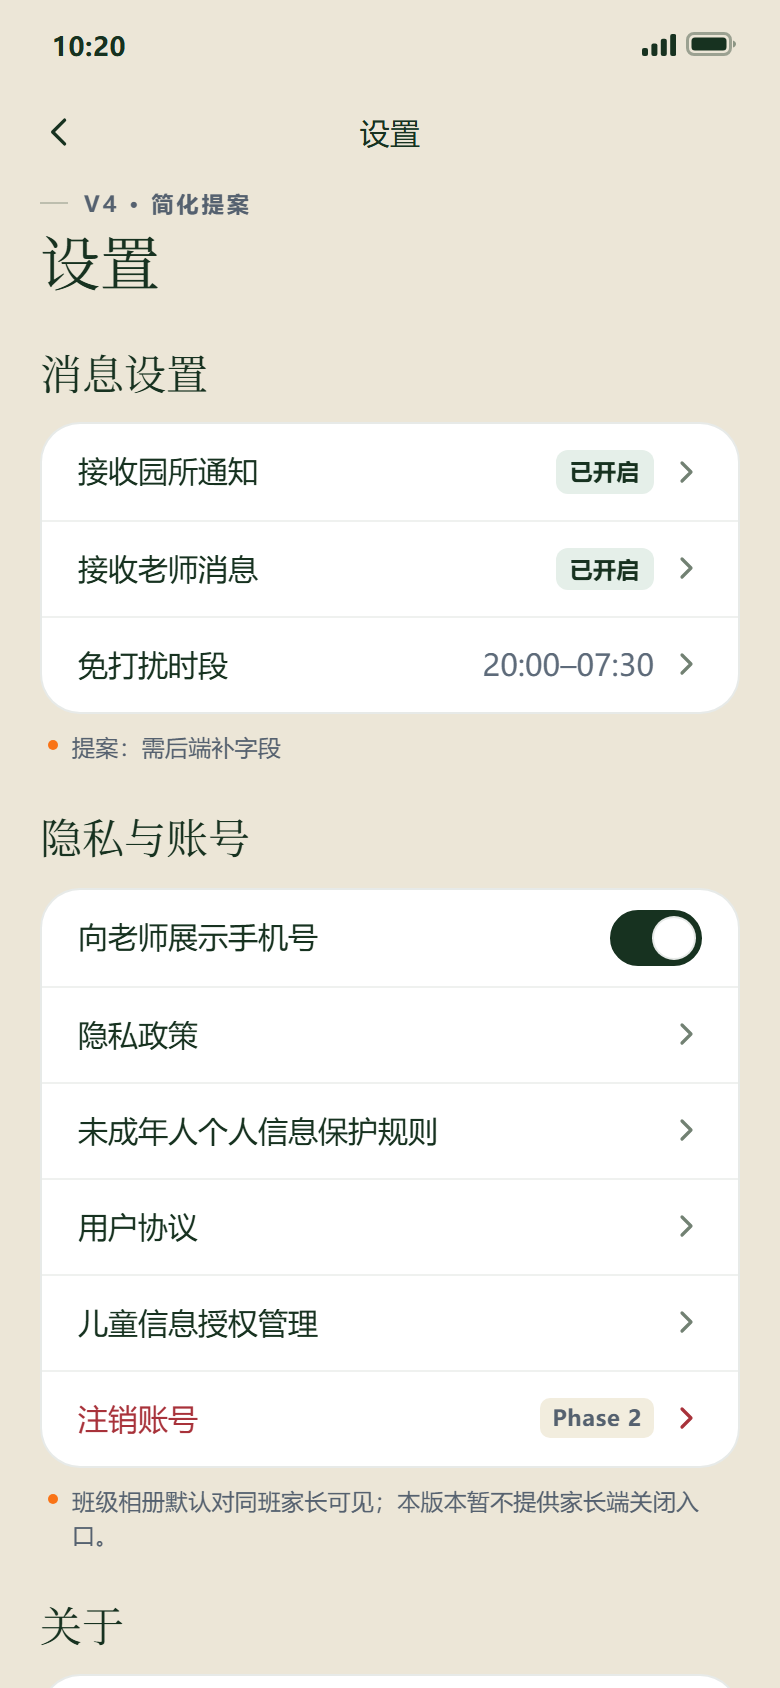
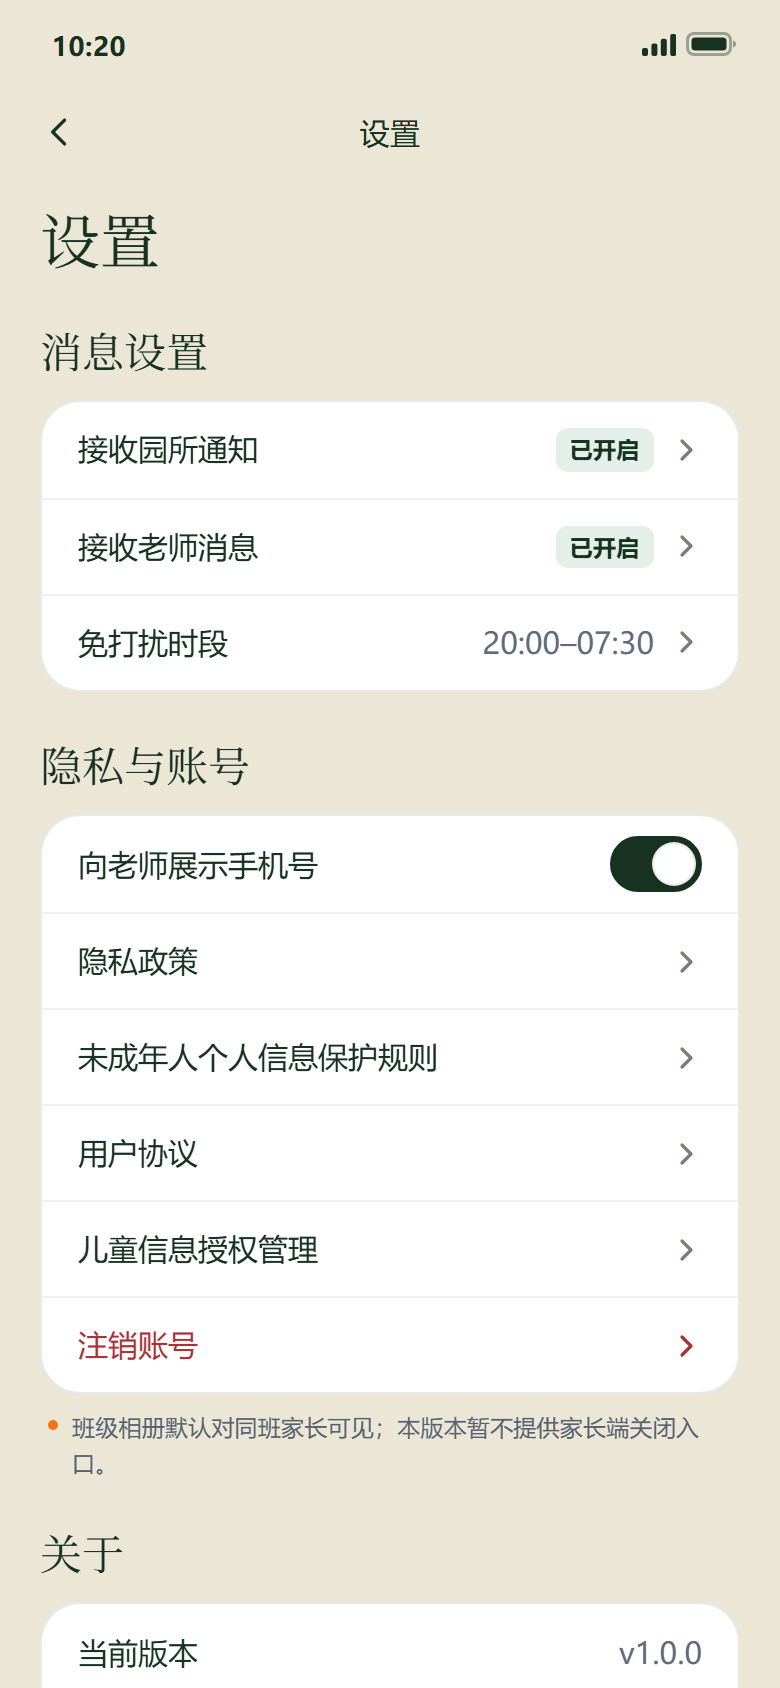
fix(design): #88 code review 收口
移除用户可见提案注解并更新 49/56/smoke；05 保留期限不再写无来源的 3 年；checker README 授权 clock/relation 与 data-od-id 容器定位；54-pickup 改名 59 避免同前缀。

Changed region(s): [[0.0308, 0.0924, 0.9538, 1.0], [0.3077, 0.6161, 0.5538, 0.6777], [0.8615, 0.7085, 0.8923, 0.7393]]

diff --git a/docs/design-previews/2026-11-13-parent-dna-opendesign/parent-chosen/05-policy/index.html b/docs/design-previews/2026-11-13-parent-dna-opendesign/parent-chosen/05-policy/index.html
@@ -75,7 +75,7 @@
           <div class="section-head" aria-hidden="true"><span class="section-no">03</span></div>
           <h3 class="section-title" id="policy-storage">存储与保护</h3>
           <p>信息存储在中国境内的服务器，传输过程使用加密连接。园所与平台按最小必要原则分配查看权限，操作记录可追溯。</p>
-          <p>账号信息在孩子离园后保存 <span class="hl hl--marigold">3 年</span>，到期后删除或匿名化处理；法律法规另有要求的，按法定期限保存。</p>
+          <p>账号信息在孩子离园后按《隐私政策》约定期限保存，到期后删除或匿名化处理；法律法规另有要求的，按法定期限保存。</p>
         </section>
 
         <section class="policy-section" data-od-id="section-sharing" aria-labelledby="policy-sharing">

diff --git a/docs/design-previews/2026-11-13-parent-dna-opendesign/parent-chosen/29-settings/styles.css b/docs/design-previews/2026-11-13-parent-dna-opendesign/parent-chosen/29-settings/styles.css
@@ -292,3 +292,9 @@ a.btn{text-decoration:none}
 .toast.is-visible{opacity:1;visibility:visible;transform:translate(-50%,0);transition:opacity 200ms var(--ease-out),transform 200ms var(--ease-out),visibility 0s}
 
 @media(prefers-reduced-motion:reduce){*,*::before,*::after{transition-duration:1ms!important;animation-duration:1ms!important}}
+
+/* #88: proposal annotations are review-only; keep them out of the user-facing prototype. */
+.proposal-tag,.proposal-note,.proposal-flag,.proposal-mark,.tag--proposal,.phase-tag,.phase-note,.phase-inline,.spec-note,.notice-foot__proposal{display:none!important}
+
+/* #88: proposal-only notes are review artifacts, not user-facing copy. */
+[data-od-id="quiet-proposal-note"],.sheet-note{display:none!important}

diff --git a/docs/design-previews/2026-11-13-parent-dna-opendesign/parent-chosen/21-tasks/index.html b/docs/design-previews/2026-11-13-parent-dna-opendesign/parent-chosen/21-tasks/index.html
@@ -4,7 +4,7 @@
 <meta charset="utf-8" />
 <meta name="viewport" content="width=device-width, initial-scale=1" />
 <meta name="color-scheme" content="light" />
-<title>亲子任务 · 积分提案 — 养成星球</title>
+<title>亲子任务 — 养成星球</title>
 <link rel="stylesheet" href="../../_shared/fonts.css" />
   <link rel="stylesheet" href="styles.css" />
 </head>

diff --git a/docs/design-previews/2026-11-13-parent-dna-opendesign/parent-chosen/07-notice-detail/styles.css b/docs/design-previews/2026-11-13-parent-dna-opendesign/parent-chosen/07-notice-detail/styles.css
@@ -791,3 +791,6 @@ button:focus-visible {
     animation-duration: 0.01ms !important;
   }
 }
+
+/* #88: proposal annotations are review-only; keep them out of the user-facing prototype. */
+.proposal-tag,.proposal-note,.proposal-flag,.proposal-mark,.tag--proposal,.phase-tag,.phase-note,.phase-inline,.spec-note,.notice-foot__proposal{display:none!important}

diff --git a/docs/design-previews/2026-11-13-parent-dna-opendesign/parent-chosen/21-tasks/styles.css b/docs/design-previews/2026-11-13-parent-dna-opendesign/parent-chosen/21-tasks/styles.css
@@ -777,3 +777,6 @@ svg { display: block; }
     animation-duration: 1ms !important;
   }
 }
+
+/* #88: proposal annotations are review-only; keep them out of the user-facing prototype. */
+.proposal-tag,.proposal-note,.proposal-flag,.proposal-mark,.tag--proposal,.phase-tag,.phase-note,.phase-inline,.spec-note,.notice-foot__proposal{display:none!important}

diff --git a/docs/design-previews/2026-11-13-parent-dna-opendesign/parent-chosen/24-points/index.html b/docs/design-previews/2026-11-13-parent-dna-opendesign/parent-chosen/24-points/index.html
@@ -3,7 +3,7 @@
 <head>
   <meta charset="utf-8" />
   <meta name="viewport" content="width=device-width, initial-scale=1, viewport-fit=cover" />
-  <title>积分与成就 · 积分提案</title>
+  <title>积分与成就</title>
   <link rel="stylesheet" href="../../_shared/fonts.css" />
   <link rel="stylesheet" href="styles.css" />
 </head>

diff --git a/docs/design-previews/2026-11-13-parent-dna-opendesign/parent-chosen/24-points/styles.css b/docs/design-previews/2026-11-13-parent-dna-opendesign/parent-chosen/24-points/styles.css
@@ -961,3 +961,6 @@ h1 {
     border: 0;
   }
 }
+
+/* #88: proposal annotations are review-only; keep them out of the user-facing prototype. */
+.proposal-tag,.proposal-note,.proposal-flag,.proposal-mark,.tag--proposal,.phase-tag,.phase-note,.phase-inline,.spec-note,.notice-foot__proposal{display:none!important}

diff --git a/docs/design-previews/2026-11-13-parent-dna-opendesign/_shared/checks-chosen/README.md b/docs/design-previews/2026-11-13-parent-dna-opendesign/_shared/checks-chosen/README.md
@@ -3,6 +3,7 @@
 `node _shared/check-variants.mjs --chosen` 的断言不写死在共享检查脚本里。
 本目录每个 `.mjs` 文件（`_` 开头的除外，可放共享辅助模块）都是一个入口，
 按文件名排序加载。**新增页面/票的断言时只加文件，不改 `check-variants.mjs`。**
+例外（spec #88 / ticket #98）：引擎允许增加 `clock` measure 与 `relation`（`eq/gte/lte/gt/lt`）以支持时间顺序断言；该扩展由 #99 终检统一维护。
 
 ## 运行
 
@@ -121,5 +122,6 @@ export default {
   不要把所有页面塞进同一个文件。
 - 只断言用户可见事实：文案、字段有无、默认状态、真实点击后果、跨页一致的数字。
 - 不要断言 CSS 类名、内部 DOM 结构或 `data-*` 实现细节。
+- `data-od-id` 是原型评审钩子，可作为 `within` 的稳定容器定位；不要把它的存在或取值当作业务事实断言。
 - 页面文案会随票改，断言写该票的验收口径；共享冒烟断言（`smoke.mjs`）
   只锁定页面身份，不锁定业务口径。
